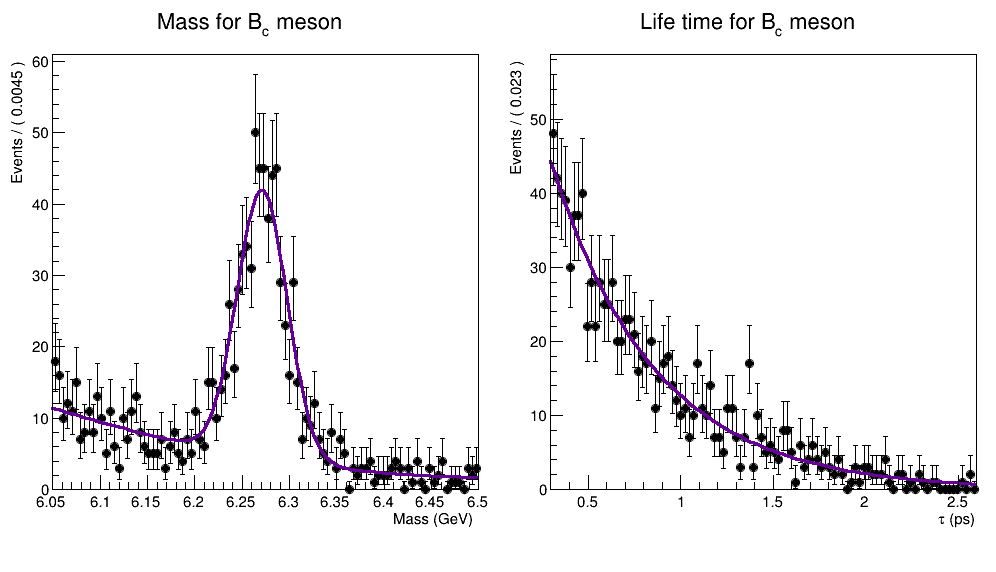
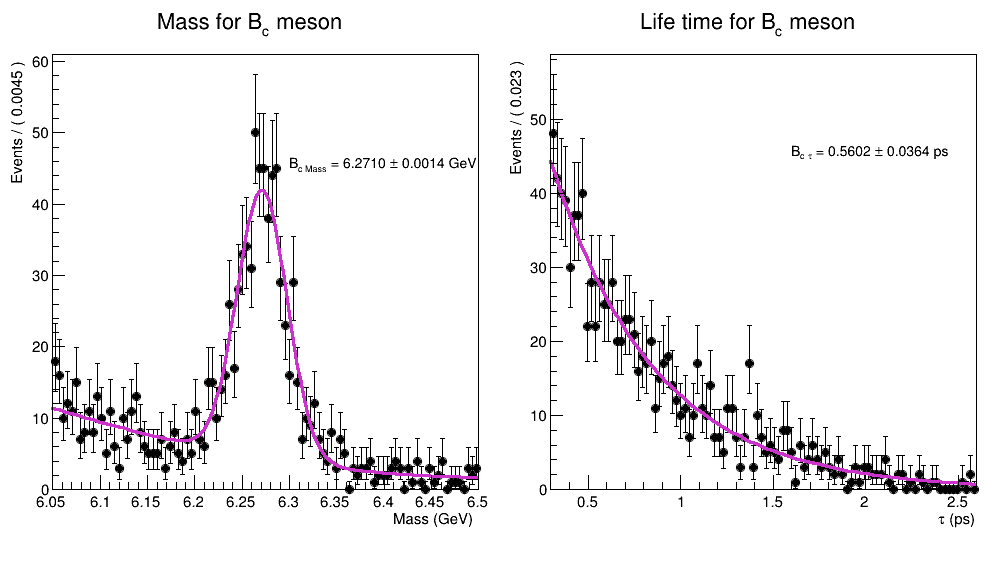
Buenos graficos

diff --git a/Documents/Parcial2/CC_1001010600/fit2D.C b/Documents/Parcial2/CC_1001010600/fit2D.C
@@ -62,9 +62,12 @@ void fit2D(){
     RooRealVar c("c", "c", -10,10);
     RooExponential lifet("lifet", "lifet", TAU, c);
 
-    RooProdPdf massLifeTime("massLifeTime", "massLifeTime", RooArgSet(masa, lifet));
+    RooProdPdf massLifeTime("massLifeTime", "massLifeTime", masa, Conditional(lifet, TAU));
 
-    RooFitResult* result = massLifeTime.fitTo(data);
+    RooFitResult* result = massLifeTime.fitTo(data, ConditionalObservables(tERR), Save(kTRUE));
+    auto pars = result->floatParsFinal();
+    RooRealVar *massMean; massMean = (RooRealVar *)pars.at(3);
+    RooRealVar *lifetime; lifetime = (RooRealVar *)pars.at(2);
 
 
     TCanvas* canvas = new TCanvas("c", "c", 1000, 600);
@@ -87,8 +90,13 @@ void fit2D(){
     framem->SetXTitle("Mass (GeV)");
 
     data.plotOn(framem);
-    massLifeTime.plotOn(framem, LineColor(kViolet-6));
+    massLifeTime.plotOn(framem, LineColor(kMagenta-3));
     framem->Draw();
+
+    auto mtext = new TLatex();
+    mtext->SetTextSize(0.031);
+    mtext->SetTextFont(42);
+    mtext->DrawLatex(6.3, 45,Form("B_{c Mass} = %1.4f #pm %1.4f GeV", massMean->getVal(), massMean->getError()));
 
     pad2->cd();
     RooPlot* framet = TAU.frame();
@@ -96,9 +104,16 @@ void fit2D(){
     framet->SetXTitle("#tau (ps)");
 
     data.plotOn(framet);
-    massLifeTime.plotOn(framet, LineColor(kViolet-6));
+    massLifeTime.plotOn(framet, LineColor(kMagenta-3));
     framet->Draw();
+
+    auto lftext = new TLatex();
+    lftext->SetTextSize(0.031);
+    lftext->SetTextFont(42);
+    lftext->DrawLatex(1.6, 45,Form("B_{c #tau} = %1.4f #pm %1.4f ps", -1/lifetime->getVal(), -lifetime->getError()/lifetime->getVal()));
 
     canvas->Draw();
     canvas->SaveAs("2Dfit.png");
+
+    
 }

diff --git a/Documents/Parcial2/CC_1001010600/fitData.C b/Documents/Parcial2/CC_1001010600/fitData.C
@@ -59,6 +59,9 @@ void fitData(){
     //Fit
     RooFitResult* result = model.fitTo(massDS, Extended(kTRUE), Save(kTRUE));
 
+    auto pars = result->floatParsFinal();
+    RooRealVar *massMean; massMean = (RooRealVar *)pars.at(3);
+
     //Grafico
     TCanvas* c = new TCanvas("c", "c", 1000, 800);
 
@@ -95,10 +98,14 @@ void fitData(){
     legMass->AddEntry(mframe->findObject("signal"),"Signal","l");
     legMass->AddEntry(mframe->findObject("bkg"),"Bkg","l");
 
-
     mframe->SetTitle("Mass for B_{c} meson");
     mframe->Draw();
     legMass->Draw();
+
+    auto mtext = new TLatex();
+    mtext->SetTextSize(0.04);
+    mtext->SetTextFont(42);
+    mtext->DrawLatex(6.1, 80, Form("B_{c Mass} = %1.4f #pm %1.4f GeV", massMean->getVal(), massMean->getError()));
 
     RooHist* massPull = mframe->pullHist();
     pad2->cd();
